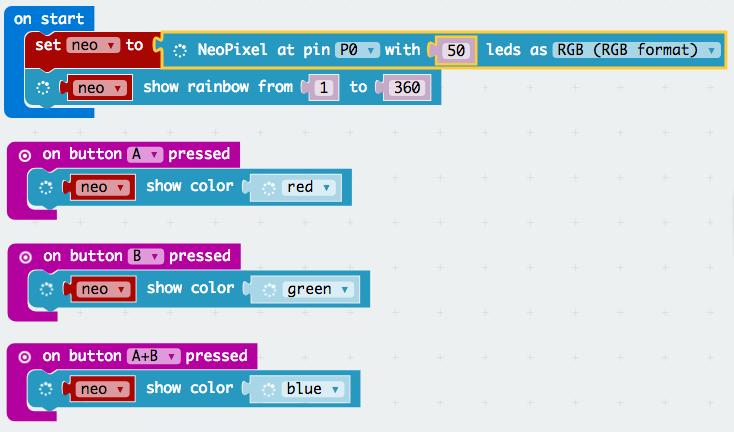
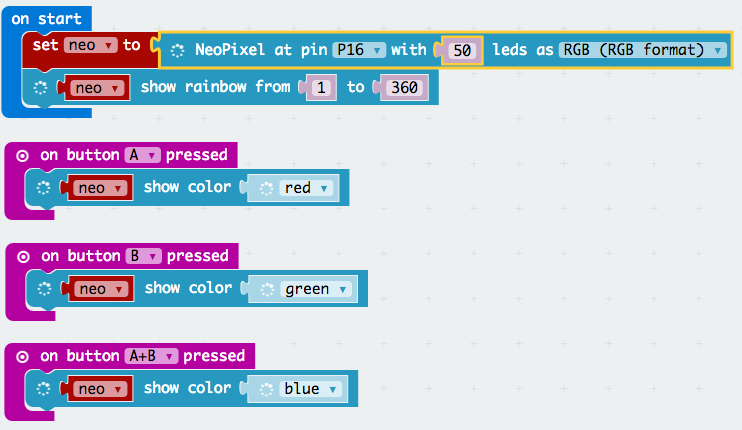
Update README and pictures; add ChangeLog.

diff --git a/README.md b/README.md
@@ -27,7 +27,7 @@ neo:bit board.
 * [View schematic](doc/schematic.pdf)
 * [View PCB][30]
 
-![neo:bit board](doc/neobit-alitove.jpg)
+![neo:bit board](doc/neobit.jpg)
 
 ## Usage
 
@@ -144,6 +144,7 @@ Some symbols and footprints in this repo are under different licenses:
 * 74AHCT125 symbol is a substantially modified version of the symbol from [a library][6] by [propane-and-electrons][7].
 * Barrel_Jack_MountingPin symbol is from [the official KiCad 5 library][8], and R_POT_Mountingpin symbol is derived from a symbol in the official library ([CC-BY-SA 4.0 with exception][9]).
 
+![neo:bit with string of LEDs](doc/neobit-alitove.jpg)
 ![neo:bit with butterfly](doc/neobit-butterfly.jpg)
 
 [1]: https://github.com/anthonykirby/kicad_microbit_connector/blob/master/lib_microbit_connector/lib_microbit_connector.lib
@@ -168,7 +169,7 @@ Some symbols and footprints in this repo are under different licenses:
 [26]: https://coolcomponents.co.uk/products/edge-connector-for-bbc-micro-bit
 [27]: https://makecode.microbit.org/pkg/microsoft/pxt-neopixel
 [28]: https://microbit-micropython.readthedocs.io/en/latest/neopixel.html
-[29]: https://oshpark.com/shared_projects/wggp8Cjl
+[29]: https://oshpark.com/shared_projects/cOlGXHEk
 [30]: https://eyrie.io/board/9e1a5f1d622a41188564be353a699805
 [80]: https://www.adafruit.com/product/1663
 [81]: https://smile.amazon.com/gp/product/B075T84ZR3/

diff --git a/ChangeLog.md b/ChangeLog.md
@@ -1,0 +1,14 @@
+# Change Log for neo:bit board
+
+## Version 2.0
+
+* Changed NeoPixel pin from P0 to P16.
+* Chanegd NeoPixel connector from JST-PH to terminal block.
+* Added terminal block for DotStars on pins P13 and P15.
+* Added 3.5mm audio jack for headphones on pin P0.
+* Added Qwiic connector for I2C.
+* Support 12V NeoPixels in addition to 5V NeoPixels.
+
+## Version 1.0
+
+Initial revision.
